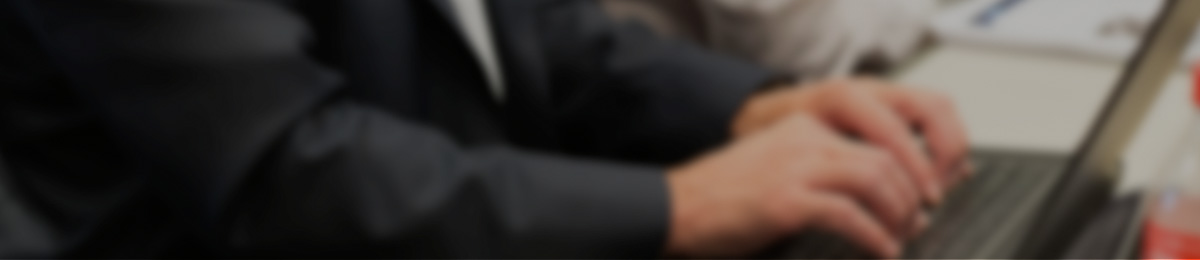
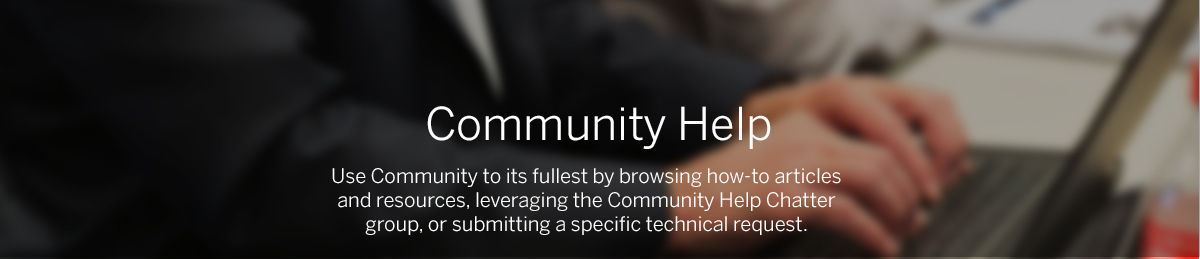
HELP LP - feedback

diff --git a/src/styles/styles.css b/src/styles/styles.css
@@ -1776,6 +1776,7 @@ th {
   top: 32%;
   width: 100%;
   text-align: center;
+  display: none;
 }
 .ae-content[data-page='help'] .hero h2.light {
   color: #fff;
@@ -1796,6 +1797,7 @@ th {
   width: 32%;
   line-height: 135%;
   text-align: center;
+  display: none;
 }
 .ae-content[data-page='help'] .content-container {
   width: 80%;

diff --git a/src/less/help.less b/src/less/help.less
@@ -30,6 +30,7 @@
 			    top: 32%;
 			   	width: 100%;
 			   	text-align: center;
+			   	display: none;
 
 				&.light {
 					color:#fff;
@@ -53,6 +54,7 @@
 			    width: 32%;
 			    line-height: 135%;
 			    text-align: center;
+			    display: none;
 			}
 		}
 
